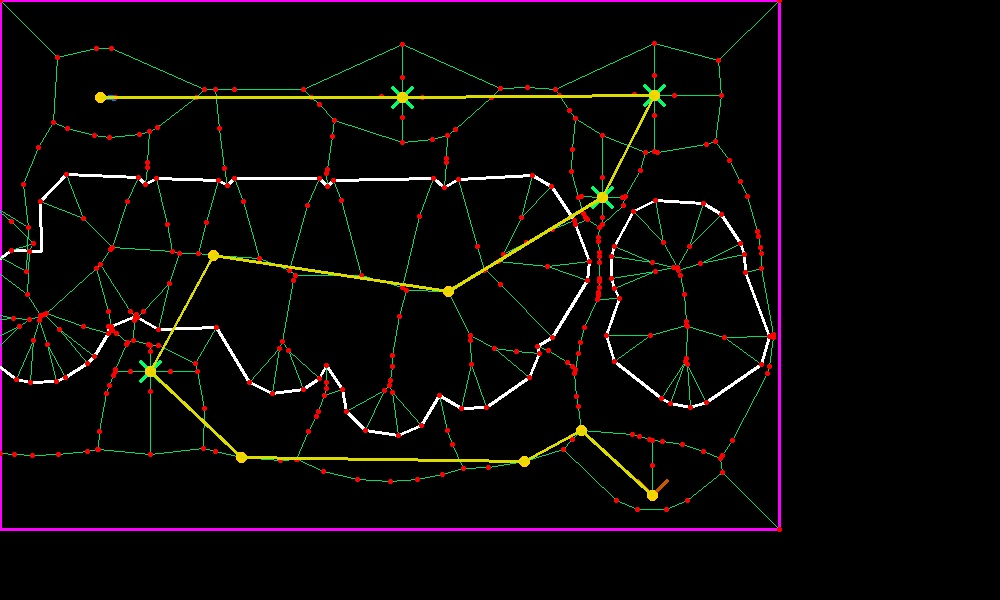
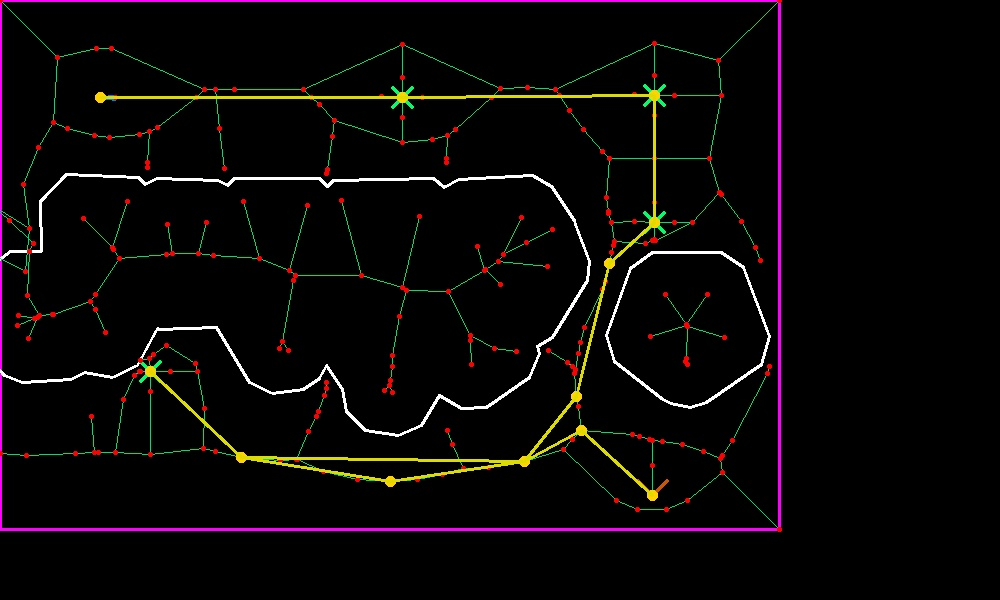
eliminazione vertici di voronoi che finiscono negli ostacoli

diff --git a/src/Voronoi.cpp b/src/Voronoi.cpp
@@ -292,6 +292,21 @@ void Voronoi::calculate(const std::vector<Polygon> &obstacle_list, const Polygon
 
     construct_voronoi(points.begin(), points.end(), segments.begin(), segments.end(), &vd);
 
+
+
+}
+
+bool voronoi_match_obstacles(std::vector<Polygon> merged_obstacles,double x,double y){
+    for (int i = 0; i < merged_obstacles.size(); i++) {
+        Polygon v = merged_obstacles[i];
+        for (int j = 0; j < v.size(); j++) {
+            if ((fabs(x - v[j].x) < threshold_ricerca) && (fabs(y - v[j].y) < threshold_ricerca)){
+                //std::cout<<"elimon un vertie:  x: "<<x<<" y: "<<y<<" vicino al obstacle: x: "<<v[j].x<<"v[j].y "<<v[j].y<<std::endl;
+                return true;
+            }
+        }
+    }
+    return false;
 }
 
 cv::Mat Voronoi::draw(const std::vector<Polygon> &obstacle_list, const Polygon &borders,
@@ -363,6 +378,7 @@ cv::Mat Voronoi::draw(const std::vector<Polygon> &obstacle_list, const Polygon &
             if (j <= v.size() - 2) {
                 cv::line(image, cv::Point(v[j].x * scale, v[j].y * scale),
                          cv::Point(v[(j + 1)].x * scale, v[(j + 1)].y * scale), cv::Scalar(255, 255, 255), 2, 1);
+
             } else {
                 cv::line(image, cv::Point(v[j].x * scale, v[j].y * scale), cv::Point(v[0].x * scale, v[0].y * scale),
                          cv::Scalar(255, 255, 255), 2, 1);
@@ -379,8 +395,16 @@ cv::Mat Voronoi::draw(const std::vector<Polygon> &obstacle_list, const Polygon &
 
             if (it->is_primary()) {
                 //std::cout << "edge: x1: " << it->vertex0()->x() << " y1: " << it->vertex0()->y() << " \t  x2 " << it->vertex1()->x() << " y2: " << it->vertex1()->y() << std::endl;
-                cv::line(image, cv::Point(it->vertex0()->x(), it->vertex0()->y()),
-                         cv::Point(it->vertex1()->x(), it->vertex1()->y()), cv::Scalar(110, 220, 0), 1, 8);
+                double x = it->vertex0()->x() / scale;
+                double y = it->vertex0()->y() / scale;
+                double x1 = it->vertex1()->x() / scale;
+                double y1 = it->vertex1()->y() / scale;
+                if(!voronoi_match_obstacles(obstacle_list,x,y)&&!voronoi_match_obstacles(obstacle_list,x1,y1)) {
+                    cv::line(image, cv::Point(it->vertex0()->x(), it->vertex0()->y()),
+                            cv::Point(it->vertex1()->x(), it->vertex1()->y()), cv::Scalar(110, 220, 0), 1, 8);
+
+
+                }
 
             }
         }
@@ -388,7 +412,14 @@ cv::Mat Voronoi::draw(const std::vector<Polygon> &obstacle_list, const Polygon &
 
     for (voronoi_diagram<double>::const_vertex_iterator it = vd.vertices().begin(); it != vd.vertices().end(); ++it) {
         //std::cout << "vertex: x1: " << it->x() << " \t y1: " << it->y() << std::endl;
-        cv::circle(image, cv::Point(it->x(), it->y()), 1, cv::Scalar(0, 0, 255), 2, 8, 0);
+        double x = it->x() / scale;
+        double y = it->y() / scale;
+        if(!voronoi_match_obstacles(obstacle_list,x,y)) {
+            cv::circle(image, cv::Point(it->x(), it->y()), 1, cv::Scalar(0, 0, 255), 2, 8, 0);
+
+
+        }
+
     }
 
 /*
@@ -609,12 +640,14 @@ bool compare_victim_number(std::pair<int, Voronoi::Point> v1, std::pair<int, Vor
     return (v1.first > v2.first);
 }
 
+
+
 /**
  * Generate graph from voronoi points and calculate the minimum path from robot to gate through the victims
  * @param vd Voronoi diagram
  * @return Minimum point path including approach angle
  */
-std::vector<std::tuple<int, Voronoi::Point, double> > Voronoi::graph(voronoi_diagram<double> &vd) {
+std::vector<std::tuple<int, Voronoi::Point, double> > Voronoi::graph(voronoi_diagram<double> &vd,std::vector<Polygon> merged_obstacles) {
     //Graph struct
     Graph myg;
 
@@ -623,8 +656,9 @@ std::vector<std::tuple<int, Voronoi::Point, double> > Voronoi::graph(voronoi_dia
     for (voronoi_diagram<double>::const_vertex_iterator it = vd.vertices().begin(); it != vd.vertices().end(); ++it) {
         double x = it->x() / scale;
         double y = it->y() / scale;
-
-        myg.vertex_map.emplace_back(Voronoi::Point(x, y));
+        if(!voronoi_match_obstacles(merged_obstacles,x,y)) {
+            myg.vertex_map.emplace_back(Voronoi::Point(x, y));
+        }
 
         vertex_id++;
     }

diff --git a/src/find_robot.cpp b/src/find_robot.cpp
@@ -15,7 +15,7 @@ namespace student {
                          cv::CHAIN_APPROX_SIMPLE);
         cv::drawContours(img_in, contours, -1, cv::Scalar(40, 190, 40), 4, cv::LINE_AA);
 
-        cv::imwrite(config_folder + "/img_robot.jpg", img_in);
+        //cv::imwrite(config_folder + "/img_robot.jpg", img_in);
 
         //cv::imshow("robot_mask", img_in);
         //cv::waitKey(20);
@@ -30,7 +30,7 @@ namespace student {
 
             // Check the number of edge of the aproximate contour
             if (approx_curve.size() == 3) {
-                std::cout << "triangle (robot) found!:  " << contours[i].size() << std::endl;
+                //std::cout << "triangle (robot) found!:  " << contours[i].size() << std::endl;
                 break;
             }
         }
@@ -79,12 +79,12 @@ namespace student {
             vec_approx_curve = {approx_curve};
             cv::drawContours(img_in, vec_approx_curve, -1, cv::Scalar(0, 0, 255), 3, cv::LINE_AA);
             //calcolo la posizione del robot (rotazione e posizione del vertice del triangolo)
-
+/*
             std::cout << "-----triangle position (in meter?):  " << std::endl;
             std::cout << " x " << triangle[0].x << " y " << triangle[0].y << std::endl;
             std::cout << " x " << triangle[1].x << " y " << triangle[1].y << std::endl;
             std::cout << " x " << triangle[2].x << " y " << triangle[2].y << std::endl;
-
+*/
 
             return true;
 

diff --git a/src/include/Voronoi.hpp b/src/include/Voronoi.hpp
@@ -140,7 +140,7 @@ public:
               const Polygon &gate, const float x, const float y, const float theta, voronoi_diagram<double> &vd,
               const std::vector<std::tuple<int, Voronoi::Point, double> > te);
 
-    std::vector<std::tuple<int, Voronoi::Point, double> > graph(voronoi_diagram<double> &vd);
+    std::vector<std::tuple<int, Voronoi::Point, double> > graph(voronoi_diagram<double> &vd,std::vector<Polygon> merged_obstacles);
 };
 
 

diff --git a/src/student_interface.cpp b/src/student_interface.cpp
@@ -319,7 +319,7 @@ namespace student {
         v.calculate(merged_list, borders, victim_list, gate, x, y, theta, vd);
 
         //Generate the graph
-        std::vector<std::tuple<int, Voronoi::Point, double> > t = v.graph(vd);
+        std::vector<std::tuple<int, Voronoi::Point, double> > t = v.graph(vd,merged_list);
 
         //Draw all the scene
         cv::Mat image = v.draw(merged_list, borders, victim_list, gate, x, y, theta, vd, t);
